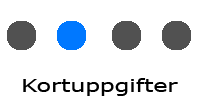
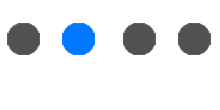
Adjusted wizard size and moved the label from the png to FXML instead.

diff --git a/iMat/src/IMat/CheckoutController.java b/iMat/src/IMat/CheckoutController.java
@@ -33,6 +33,7 @@ public class CheckoutController implements Initializable {
     @FXML private ListView<ShoppingItem> checkoutOverviewList;
     @FXML private TextArea checkoutOverviewField;
     @FXML private Label checkoutOverviewTotalLabel;
+    @FXML private Label wizardProgressLabel;
 
     @FXML private TextField checkoutNameField;
     @FXML private TextField checkoutAddressField;
@@ -143,6 +144,7 @@ public class CheckoutController implements Initializable {
                 backButton.setText("Tillbaka till kundvagnen");
                 forwardButton.setText(FORWARD);
                 wizardImage.setImage(new Image("/resources/wizard-1.png"));
+                wizardProgressLabel.setText("Kontaktuppgifter");
                 updatePageOne();
                 checkoutPane.getChildren().add(checkoutPageOne);
                 break;
@@ -152,6 +154,7 @@ public class CheckoutController implements Initializable {
                 backButton.setText(BACK);
                 forwardButton.setText(FORWARD);
                 wizardImage.setImage(new Image("resources/wizard-2.png"));
+                wizardProgressLabel.setText("Kortuppgifter");
                 if(checkoutCardOwnerField.getText().isEmpty())
                     checkoutCardOwnerField.setText(checkoutNameField.getText());
                 updatePageTwo();
@@ -163,6 +166,7 @@ public class CheckoutController implements Initializable {
                 backButton.setText(BACK);
                 forwardButton.setDisable(false);
                 wizardImage.setImage(new Image("/resources/wizard-3.png"));
+                wizardProgressLabel.setText("Bekräfta info");
                 forwardButton.setText("Bekräfta beställning");
                 updateOverview();
                 checkoutPane.getChildren().add(checkoutPageThree);
@@ -174,6 +178,7 @@ public class CheckoutController implements Initializable {
                 forwardButton.setDisable(true);
                 forwardButton.setText(FORWARD);
                 wizardImage.setImage(new Image("/resources/wizard-4.png"));
+                wizardProgressLabel.setText("Beställning klar");
                 checkoutPane.getChildren().add(checkoutPageFour);
                 IMatDataHandler.getInstance().getShoppingCart().clear();
                 //IMatDataHandler.getInstance().placeOrder(true);
